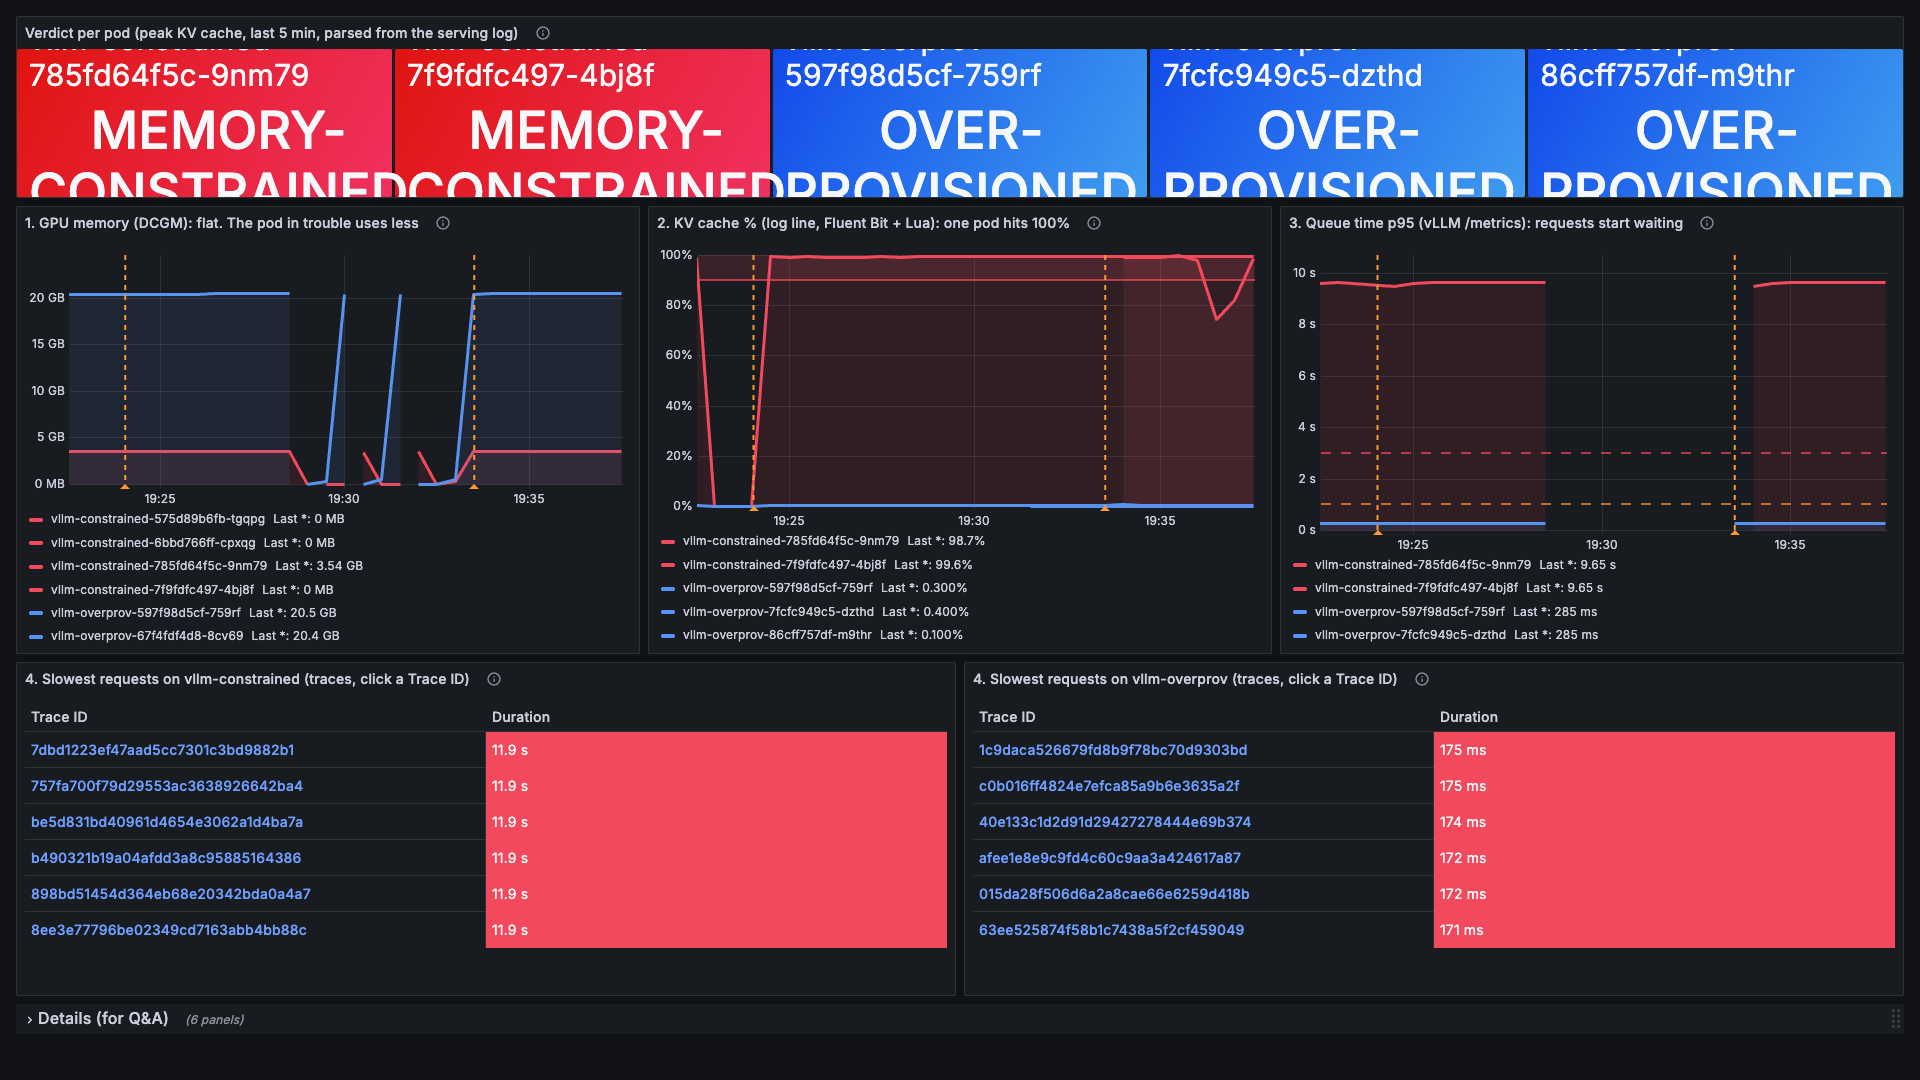
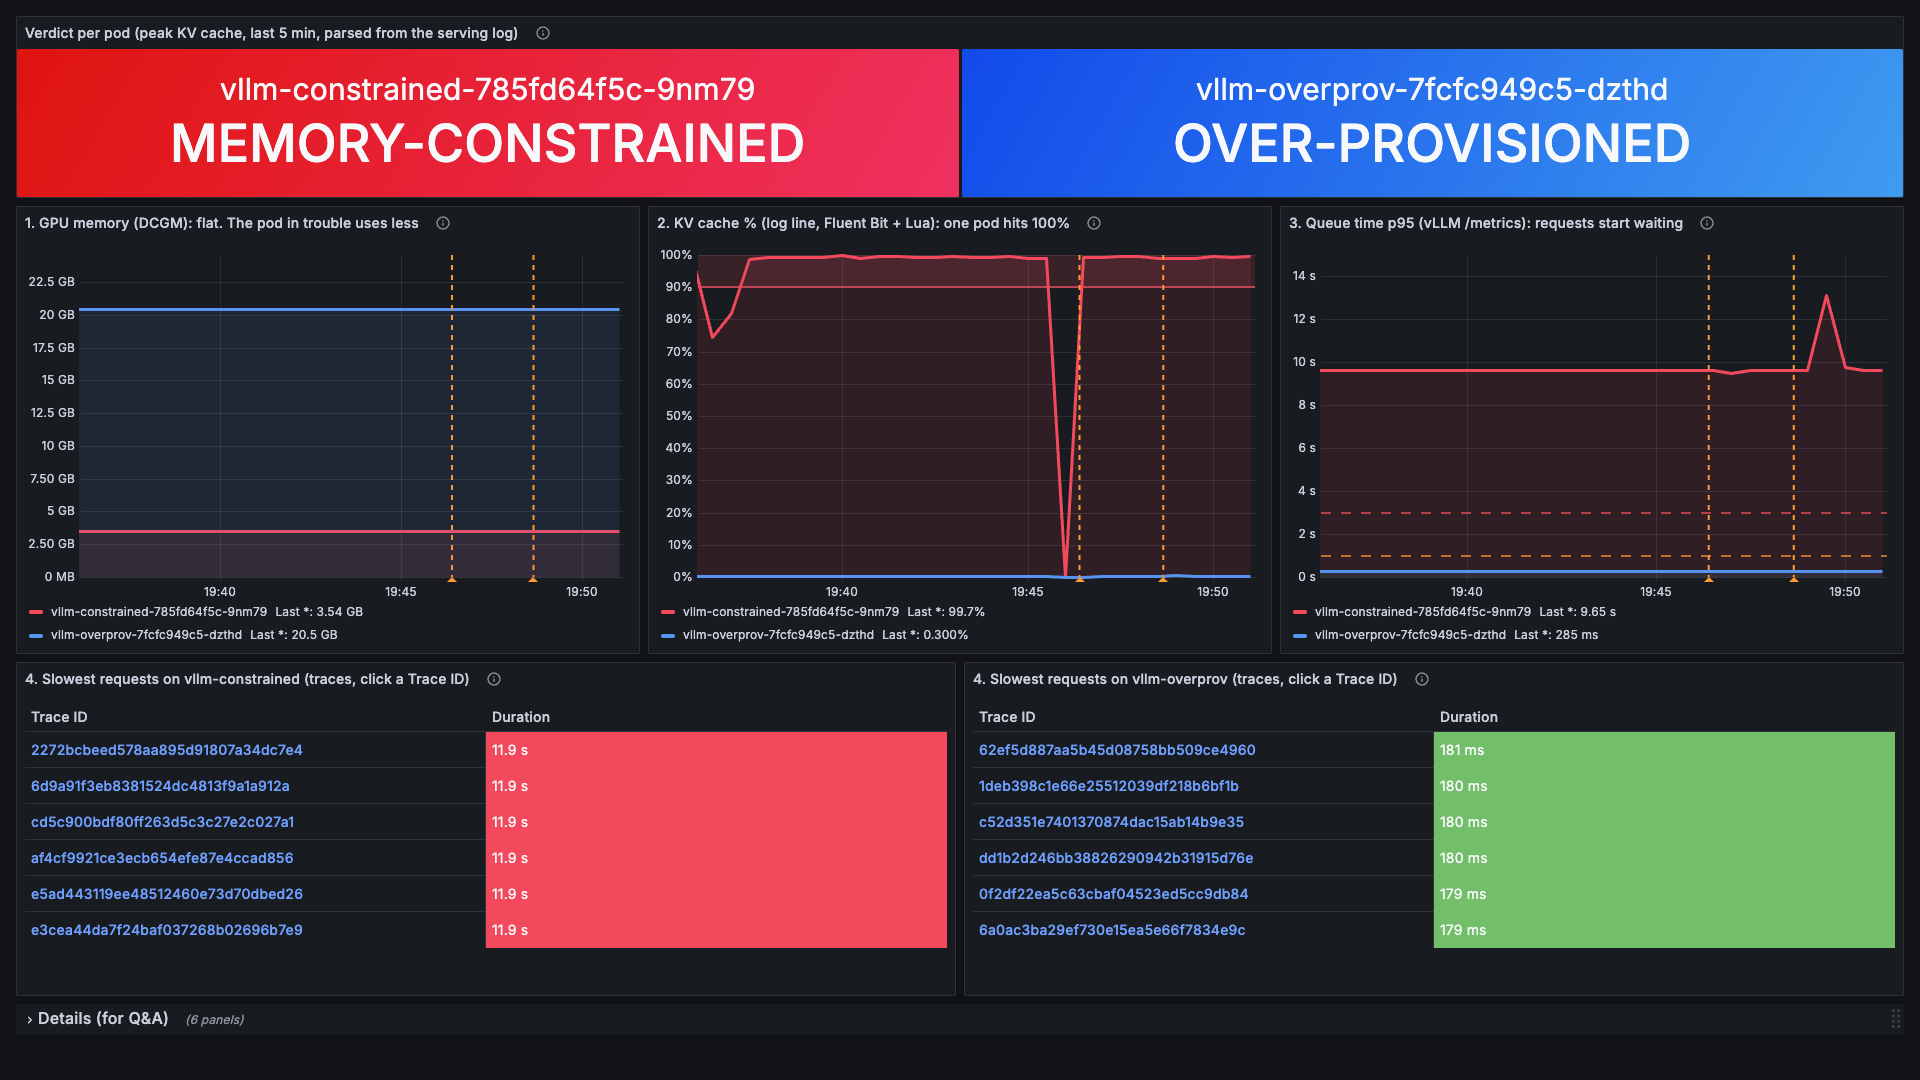
Demo v5 fixes: live-pod filter for log gauges, trace colour thresholds, tunnel watchdog

diff --git a/manifests/60-grafana/build_dashboard.py b/manifests/60-grafana/build_dashboard.py
@@ -2,6 +2,8 @@ import json, sys
 P = {"type": "prometheus", "uid": "prometheus"}
 J = {"type": "jaeger", "uid": "jaeger"}
 RED, BLUE = "red", "blue"
+# Fluent Bit log_to_metrics gauges keep their last value after a pod dies. Join on pods Running now.
+LIVE = ' and on(pod_name) label_replace(kube_pod_status_phase{namespace="inference", phase="Running"} == 1, "pod_name", "$1", "pod", "(.*)")'
 
 def colours():
     return [
@@ -42,8 +44,8 @@ def traces(pid, title, service, x, y, w, h):
                                                           {"id": "unit", "value": "µs"},
                                                           {"id": "thresholds", "value": {"mode": "absolute", "steps": [
                                                               {"color": "green", "value": None},
-                                                              {"color": "orange", "value": 1000},
-                                                              {"color": "red", "value": 3000}]}}]}]},
+                                                              {"color": "orange", "value": 1000000},
+                                                              {"color": "red", "value": 3000000}]}}]}]},
             "options": {"showHeader": True, "cellHeight": "sm"}}
 
 panels = []
@@ -53,7 +55,7 @@ panels.append({
     "description": "KV cache is the real 'GPU full' for an LLM server. Over 90% = memory-constrained, under 30% = over-provisioned.",
     "datasource": P, "gridPos": {"x": 0, "y": 0, "w": 24, "h": 5},
     "targets": [{"datasource": P, "refId": "A", "legendFormat": "{{pod_name}}",
-                 "expr": 'max by (pod_name) (max_over_time(vllm_log_kv_cache_usage_pct{pod_name=~"$pod"}[5m]))'}],
+                 "expr": 'max by (pod_name) (max_over_time(vllm_log_kv_cache_usage_pct{pod_name=~"$pod"}[5m]))' + LIVE}],
     "fieldConfig": {"defaults": {"unit": "percent", "decimals": 0,
         "mappings": [
             {"type": "range", "options": {"from": 90, "to": 1000, "result": {"text": "MEMORY-CONSTRAINED", "color": "red", "index": 0}}},
@@ -71,7 +73,7 @@ panels.append(ts(2, "1. GPU memory (DCGM): flat. The pod in trouble uses less",
     0, 5, 8, 12, "decmbytes", 0, 24576))
 panels.append(ts(3, "2. KV cache % (log line, Fluent Bit + Lua): one pod hits 100%",
     "Parsed from the vLLM stats log line by a 15-line Lua filter, turned into a metric by log_to_metrics.",
-    [{"expr": 'vllm_log_kv_cache_usage_pct{pod_name=~"$pod"}', "legendFormat": "{{pod_name}}"}],
+    [{"expr": 'vllm_log_kv_cache_usage_pct{pod_name=~"$pod"}' + LIVE, "legendFormat": "{{pod_name}}"}],
     8, 5, 8, 12, "percent", 0, 100,
     [{"color": "transparent", "value": None}, {"color": "red", "value": 90}]))
 panels.append(ts(4, "3. Queue time p95 (vLLM /metrics): requests start waiting",
@@ -92,11 +94,11 @@ detail = [
     ts(12, "GPU utilisation % (coarse, misleading) · DCGM", "",
        [{"expr": 'DCGM_FI_DEV_GPU_UTIL{exported_pod=~"$pod"}', "legendFormat": "{{exported_pod}}"}], 8, 24, 8, 8, "percent", 0, 100),
     ts(13, "Generation tokens/s · from the log", "",
-       [{"expr": 'vllm_log_gen_tokens_per_s{pod_name=~"$pod"}', "legendFormat": "{{pod_name}}"}], 16, 24, 8, 8, "none", 0),
+       [{"expr": 'vllm_log_gen_tokens_per_s{pod_name=~"$pod"}' + LIVE, "legendFormat": "{{pod_name}}"}], 16, 24, 8, 8, "none", 0),
     ts(14, "Waiting / running / preemptions · from the log", "",
-       [{"expr": 'vllm_log_waiting_reqs{pod_name=~"$pod"}', "legendFormat": "waiting {{pod_name}}"},
-        {"expr": 'vllm_log_running_reqs{pod_name=~"$pod"}', "legendFormat": "running {{pod_name}}"},
-        {"expr": 'vllm_log_preemptions_total{pod_name=~"$pod"}', "legendFormat": "preempted {{pod_name}}"}], 0, 32, 8, 8, "none", 0),
+       [{"expr": 'vllm_log_waiting_reqs{pod_name=~"$pod"}' + LIVE, "legendFormat": "waiting {{pod_name}}"},
+        {"expr": 'vllm_log_running_reqs{pod_name=~"$pod"}' + LIVE, "legendFormat": "running {{pod_name}}"},
+        {"expr": 'vllm_log_preemptions_total{pod_name=~"$pod"}' + LIVE, "legendFormat": "preempted {{pod_name}}"}], 0, 32, 8, 8, "none", 0),
     ts(15, "Cross-check: KV cache % · native vLLM /metrics", "vLLM exposes this itself; many servers do not, which is why the log path exists.",
        [{"expr": 'vllm:kv_cache_usage_perc{pod=~"$pod"} * 100', "legendFormat": "{{pod}}"}], 8, 32, 8, 8, "percent", 0, 100),
     ts(16, "Cross-check: tokens/s · native vLLM /metrics", "",
@@ -116,7 +118,9 @@ dash = {
         {"datasource": {"type": "grafana", "uid": "-- Grafana --"}, "enable": True, "iconColor": "orange",
          "name": "load hits", "target": {"type": "tags", "tags": ["load"], "matchAny": True, "limit": 20}}]},
     "templating": {"list": [{"name": "pod", "label": "pod", "type": "query", "datasource": P,
-        "query": {"query": 'label_values(DCGM_FI_DEV_FB_USED{exported_pod=~"vllm-.*"}, exported_pod)', "refId": "pod"},
+        # vLLM pods Running right now (instant query), so restarted pods drop off every panel.
+        "query": {"query": 'query_result(kube_pod_status_phase{namespace="inference", phase="Running", pod=~"vllm-(constrained|overprov).*"} == 1)', "refId": "pod"},
+        "regex": '/pod="([^"]+)"/',
         "includeAll": True, "multi": True, "refresh": 2, "current": {"text": "All", "value": "$__all"}}]},
     "panels": panels,
 }
